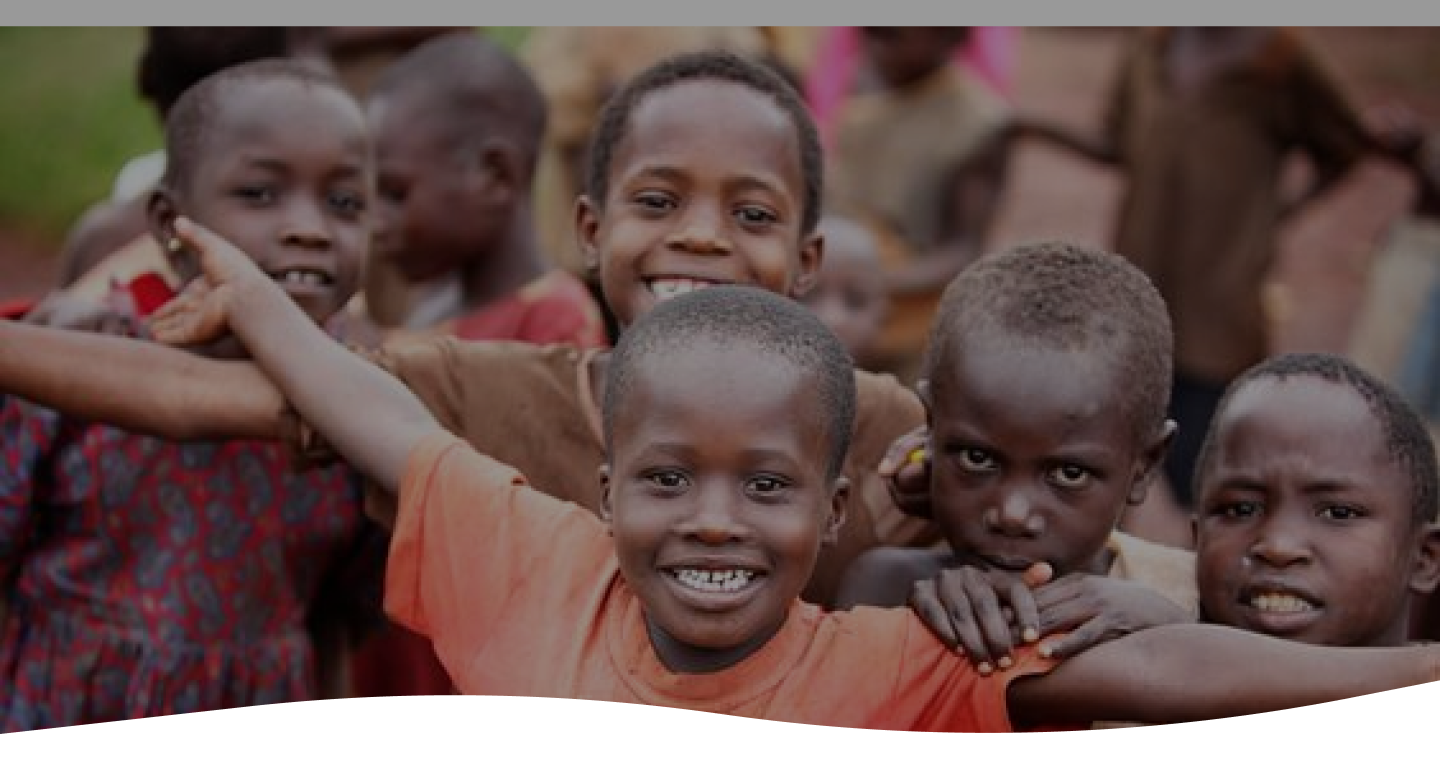
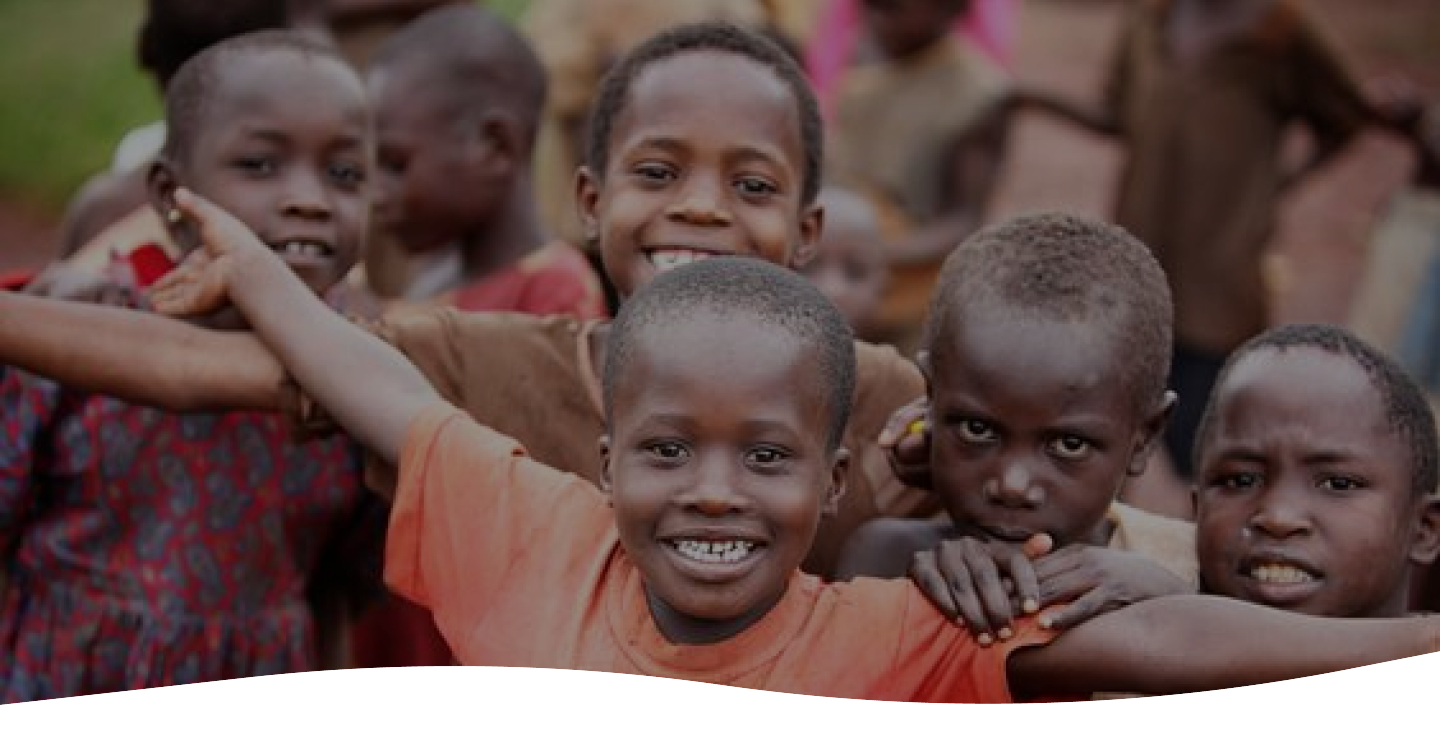
Cut the empty distanse on top from the pictures

diff --git a/src/components/BottomBar/BottomBar.jsx b/src/components/BottomBar/BottomBar.jsx
@@ -1,7 +1,7 @@
 import React from "react";
 import footerBackground from "/images/Footer_background.webp";
-import footerLogo from "/images/yp_logo_white.svg";
-import footer90KontoLogo from "/images/90_konto_logo_neg 1.png";
+import footerLogo from "/vector/yp_logo_white.svg";
+import footer90KontoLogo from "/vector/svenskkontroll.svg";
 import { NavLink } from "react-router-dom";
 import SocialMedia from "./SocialMedia";
 import WhistleBlowing from "./WhistleBlowingSection";

diff --git a/src/components/menu/NavBar.jsx b/src/components/menu/NavBar.jsx
@@ -86,7 +86,7 @@ export default function NavBar() {
     >
       <div className="navbar-logo">
         <NavLink to="/" aria-label="Navigate to the Home Page">
-          <img src="/images/yp_logo_brown.svg" alt="Yennenga Progress Logo" />
+          <img src="/vector/yp_logo_brown.svg" alt="Yennenga Progress Logo" />
         </NavLink>
       </div>
       <ul className="navbar-list flex h-full items-center justify-center gap-12">
